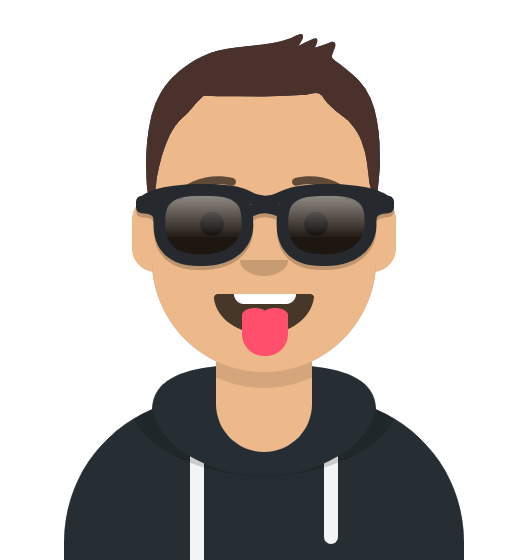
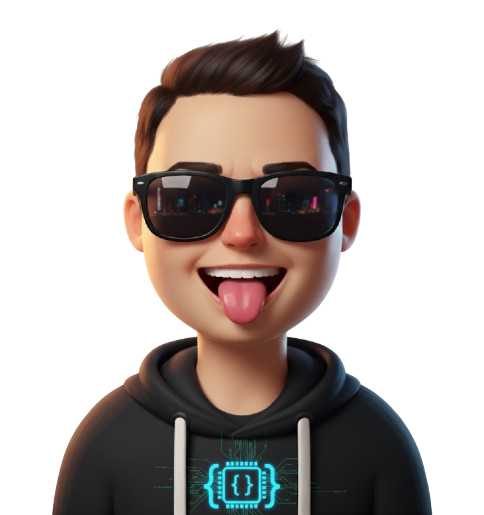
fix: Fixed the page reload loading at the top of the page.
Problem: In-page nav links didn’t show a consistent pointer cursor, anchor navigation showed #section in the URL, refresh could restore the previous scroll position instead of starting at Home, and the background effects weren’t “bubbles-only” or cursor-interactive.

Solution: Added global pointer cursor behavior for link-like elements (and fixed the nav I‑beam cursor), enabled smooth scrolling, intercepted hash-link clicks to smooth-scroll without persisting the hash in the URL, forced refresh/reload to return to the Home section (including beforeunload/pagehide and pageshow handling), and updated the background to a static dark base with upward-floating bubbles that repel/scale near the cursor.

Benefit: Links feel consistently clickable, navigation between sections feels smooth and polished, URLs stay clean, refresh reliably starts at Home, and the background looks more modern and interactive without distracting gradient motion.

Changed region(s): [[0.093, 0.0621, 0.8988, 1.0], [0.2169, 0.9631, 0.2479, 1.0]]

diff --git a/resources/js/app.js b/resources/js/app.js
@@ -8,7 +8,54 @@ Alpine.start();
 
 import './bootstrap';
 
+// Ensure reload/refresh doesn't restore previous scroll position
+if ('scrollRestoration' in window.history) {
+    window.history.scrollRestoration = 'manual';
+}
+
+function syncScrollToTop() {
+    // Synchronous scroll-to-top for unload events
+    window.scrollTo(0, 0);
+    if (document.documentElement) document.documentElement.scrollTop = 0;
+    if (document.body) document.body.scrollTop = 0;
+}
+
+// On refresh/reload, some browsers restore the last scroll position.
+// Scrolling to top during unload makes the saved position the top.
+window.addEventListener('beforeunload', () => {
+    syncScrollToTop();
+});
+
+window.addEventListener('pagehide', () => {
+    syncScrollToTop();
+});
+
+function forceScrollToSection(sectionId) {
+    const section = document.getElementById(sectionId);
+    if (!section) return;
+
+    const fixedNav = document.querySelector('nav');
+    const navOffset = fixedNav ? Math.ceil(fixedNav.getBoundingClientRect().height) : 0;
+    const extraPadding = 12;
+    const top = window.scrollY + section.getBoundingClientRect().top - navOffset - extraPadding;
+
+    // Clean any hash so the URL never shows /#home (or others)
+    if (window.location.hash && window.location.hash !== '#') {
+        const cleanUrl = window.location.pathname + window.location.search;
+        window.history.replaceState(null, document.title, cleanUrl);
+    }
+
+    // Force scroll multiple times (some browsers restore scroll after load)
+    window.scrollTo({ top, left: 0, behavior: 'auto' });
+    requestAnimationFrame(() => window.scrollTo({ top, left: 0, behavior: 'auto' }));
+    setTimeout(() => window.scrollTo({ top, left: 0, behavior: 'auto' }), 50);
+    setTimeout(() => window.scrollTo({ top, left: 0, behavior: 'auto' }), 200);
+}
+
 window.onload = function() {
+    // On reload/refresh always bring user to the Home section
+    forceScrollToSection('home');
+
     // Get all necessary elements
     const cursor = document.querySelector('.cursor-dot');
     const parallaxContainer = document.getElementById('parallax-container');
@@ -257,13 +304,9 @@ window.onload = function() {
         scrollToHashTarget(href);
     });
 
-    // If page loads with a hash (e.g., shared link), scroll there but clean the URL
-    if (window.location.hash && window.location.hash !== '#') {
-        const initialHash = window.location.hash;
-        // Clean URL immediately, then scroll
-        const cleanUrl = window.location.pathname + window.location.search;
-        window.history.replaceState(null, document.title, cleanUrl);
-        // Let layout settle (fonts/nav height) before scrolling
-        setTimeout(() => scrollToHashTarget(initialHash), 0);
-    }
 };
+
+// Also handle bfcache restores (back/forward) where scroll can come back unexpectedly.
+window.onbeforeunload = function () {
+  window.scrollTo(0, 0);
+}
